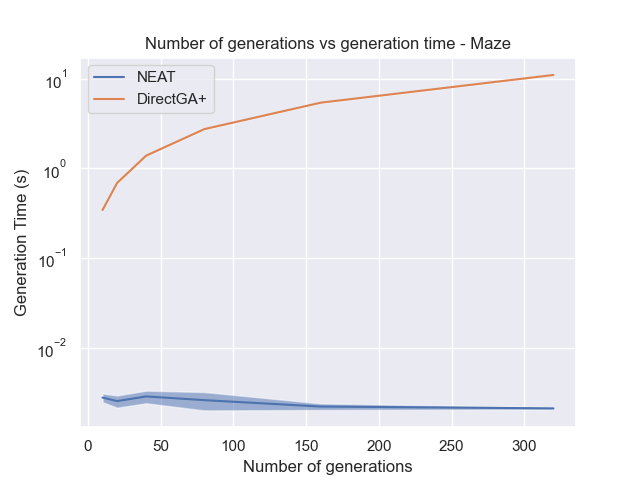
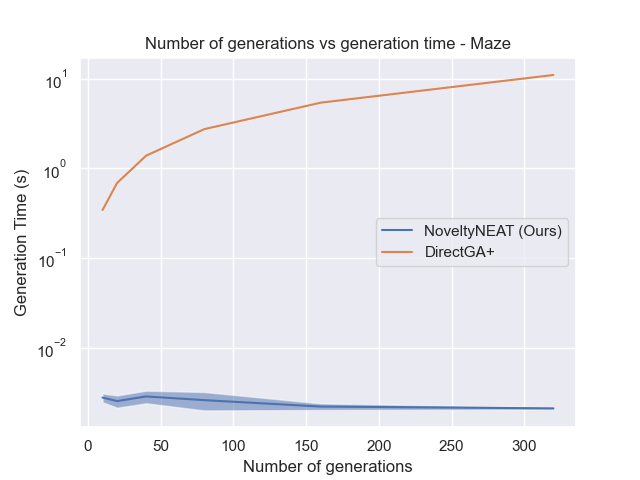
Slight change to the legend of one plot

Changed region(s): [[0.6562, 0.4688, 0.875, 0.5625], [0.1562, 0.125, 0.3438, 0.2188], [0.5938, 0.4688, 0.625, 0.5312]]

diff --git a/src/analysis/proper_experiments/v400/analyse_all_statistical_tests.py b/src/analysis/proper_experiments/v400/analyse_all_statistical_tests.py
@@ -714,7 +714,7 @@ def v420_exp_108():
         plt.plot(all_gens, list_of_means, label=name)
         plt.fill_between(all_gens, list_of_means - list_of_stds, list_of_means + list_of_stds, alpha=0.5)
     
-    plot_thing(neat_results, 'NEAT')
+    plot_thing(neat_results, 'NoveltyNEAT (Ours)')
     plot_thing(direct_results, 'DirectGA+')
     plt.xlabel("Number of generations")
     plt.ylabel("Generation Time (s)")
